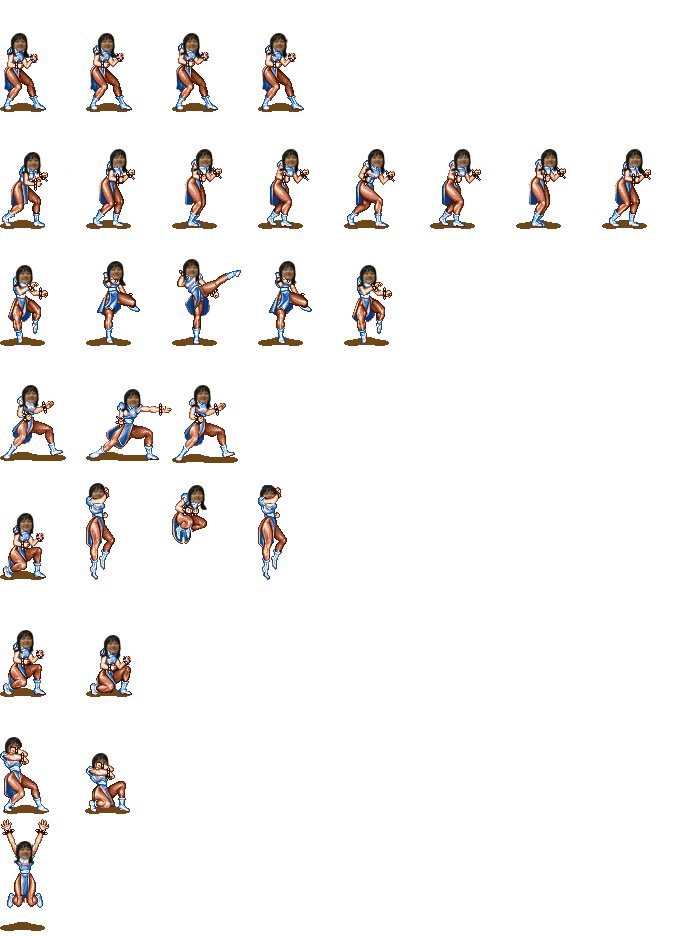
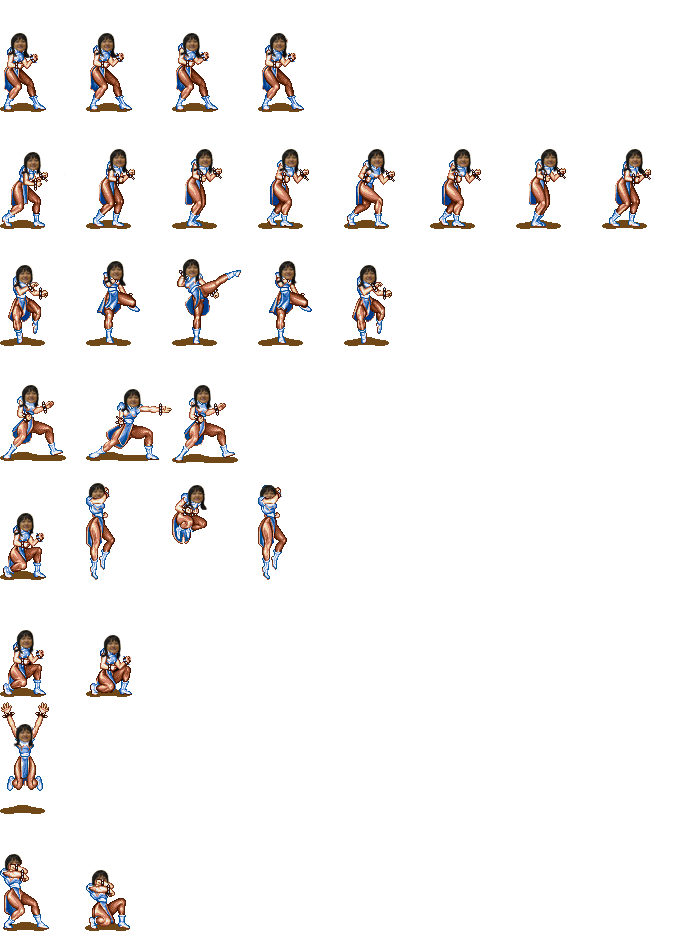
fixed bug with changing directions, halander exists

Changed region(s): [[0.0, 0.7436, 0.0916, 0.9915], [0.1221, 0.9295, 0.1831, 1.0], [0.1221, 0.8056, 0.1831, 0.8675]]

diff --git a/wv_battleroyale/src/game/Fighters/Halander.java b/wv_battleroyale/src/game/Fighters/Halander.java
@@ -9,24 +9,24 @@ import game.Input.PlayerControls;
 public class Halander extends Fighter
 {
 
-	private static final int SRC_WIDTH = 75;
-	private static final int SRC_HEIGHT = 115;
+	private static final int SRC_WIDTH = 96;
+	private static final int SRC_HEIGHT = 108;
 	
 	private static final int DRAW_WIDTH = SRC_WIDTH * 2;
 	private static final int DRAW_HEIGHT = SRC_HEIGHT * 2;
 	
 	// width of sprite while not attacking is 55ß
-	private static final int NON_ATTACK_WIDTH = 55 * 2;
+	private static final int NON_ATTACK_WIDTH = 60 * 2;
 	
-	private static final int PUNCH = 3;
-	private static final int BLOCKED_PUNCH = 1;
-	private static final int KICK = 4;
-	private static final int BLOCKED_KICK = 2;
-	private static final int SPEED = 6;
+	private static final int PUNCH = 23;
+	private static final int BLOCKED_PUNCH = 14;
+	private static final int KICK = 45;
+	private static final int BLOCKED_KICK = 33;
+	private static final int SPEED = 4;
 	
-	public static final int HEALTH = 20;
+	public static final int HEALTH = 220;
 	
-	private static final int MAX_FRAMES = 6;
+	private static final int MAX_FRAMES = 4;
 	
 	// 180 = fps
 	private static final int BLOCK_UPDATE_COUNT = 180/10; //goes to a block pose in a fifth of a second
@@ -41,11 +41,11 @@ public class Halander extends Fighter
 	private static final int BLOCK_ANIMATION_COUNT = 2;
 	private static final int STAGE_ENTRANCE_ANIMATION_COUNT = 1;
 	private static final int CROUCH_ANIMATION_COUNT = 2;
-	private static final int JUMP_ANIMATION_COUNT = 7;
+	private static final int JUMP_ANIMATION_COUNT = 3;
 	private static final int PUNCH_ANIMATION_COUNT = 3;
-	private static final int KICK_ANIMATION_COUNT = 4;
-	private static final int WALK_ANIMATION_COUNT = 5;
-	private static final int IDLE_ANIMATION_COUNT = 4;
+	private static final int KICK_ANIMATION_COUNT = 5;
+	private static final int WALK_ANIMATION_COUNT = 4;
+	private static final int IDLE_ANIMATION_COUNT = 3;
 	
 	public Halander(int newX, int newY, BufferedImage spriteSheet, BufferedImage worl, boolean isPlayer1, PlayerControls c)
 	{

diff --git a/wv_battleroyale/src/game/Fighters/Fighter.java b/wv_battleroyale/src/game/Fighters/Fighter.java
@@ -39,6 +39,7 @@ public abstract class Fighter
 	private List<String> connectedPunch = new ArrayList<String>();
 	private List<String> connectedKick = new ArrayList<String>();
 	private int walkSpeed;
+	private boolean walkingLeft = false, walkingRight = false;
 
 	enum STATE
 	{
@@ -325,12 +326,14 @@ public abstract class Fighter
 	{
 		setState(STATE.WALK);
 		setXSpeed(walkSpeed);
+		walkingRight = true;
 	}
 
 	private void walkLeft()
 	{
 		setState(STATE.WALK);
 		setXSpeed(-walkSpeed);
+		walkingLeft = true;
 	}
 
 	private void crouch()
@@ -486,10 +489,9 @@ public abstract class Fighter
 
 	public void draw(Graphics g, int offset)
 	{
-
-		GameUtils.self().drawHP(isP1 ? HP_BAR_X_P1 : HP_BAR_X_P2, HP_BAR_Y, HP_BAR_WIDTH, HP_BAR_HEIGHT, health,
-				getMaxHealth(), isP1 ? P1COLOR : P2COLOR, g);
 		FontMetrics fontMetrics = new JFrame().getFontMetrics(new Font("arial", Font.BOLD, 36));
+		GameUtils.self().drawHP(isP1 ? HP_BAR_X_P1 : HP_BAR_X_P2, HP_BAR_Y, HP_BAR_WIDTH, fontMetrics.getAscent(), health,
+				getMaxHealth(), isP1 ? P1COLOR : P2COLOR, g);
 		GameUtils.self().drawText(
 				isP1 ? HP_BAR_X_P1 - fontMetrics.stringWidth("P1") - 5 : HP_BAR_X_P2 + HP_BAR_WIDTH + 5,
 				HP_BAR_Y + fontMetrics.getAscent() - 5, Color.WHITE, isP1 ? "P1" : "P2", 36, g, Font.BOLD);
@@ -612,17 +614,26 @@ public abstract class Fighter
 	{
 		if (keyCode == controls.getLeft())
 		{
-			if (getXSpeed() != 0)
-			{
+			if(!walkingRight && walkingLeft) {
 				stopWalking();
 			}
+			if(walkingRight && walkingLeft) {
+				walkRight();
+			}
+
+			walkingLeft = false;
 		}
 		else if (keyCode == controls.getRight())
 		{
-			if (getXSpeed() != 0)
-			{
+
+			if(!walkingLeft && walkingRight) {
 				stopWalking();
 			}
+			if(walkingRight && walkingLeft) {
+				walkLeft();
+			}
+
+			walkingRight = false;
 		}
 		else if (keyCode == controls.getBlock())
 		{

diff --git a/wv_battleroyale/src/game/Menus/FighterMenu.java b/wv_battleroyale/src/game/Menus/FighterMenu.java
@@ -253,7 +253,8 @@ public class FighterMenu extends Screen
 			p1 = new Nguyen(PLAYERX, PLAYERY, GUIUtils.self().loadImage("Images/Nguyen-Ingame.png"), null, true,
 					p1Controls);
 			break;
-		case "HALANDER":
+		case "HALANDER": 
+			p1 = new Halander(PLAYERX, PLAYERY, GUIUtils.self().loadImage("Images/halander-ingame.png"), null, true, p1Controls);
 			break;
 		case "WAY":
 			p1 = new Way(PLAYERX, PLAYERY, GUIUtils.self().loadImage("Images/Way-Ingame.png"), null, true,
@@ -294,7 +295,8 @@ public class FighterMenu extends Screen
 			p2 = new Nguyen(width - PLAYERX, PLAYERY, GUIUtils.self().loadImage("Images/Nguyen-Ingame.png"), null,
 					false, p2Controls);
 			break;
-		case "HALANDER":
+		case "HALANDER": 
+			p2 = new Halander(width - PLAYERX, PLAYERY, GUIUtils.self().loadImage("Images/halander-ingame.png"), null, false, p2Controls);
 			break;
 		case "WAY":
 			p2 = new Way(width - PLAYERX, PLAYERY, GUIUtils.self().loadImage("Images/Way-Ingame.png"), null,
